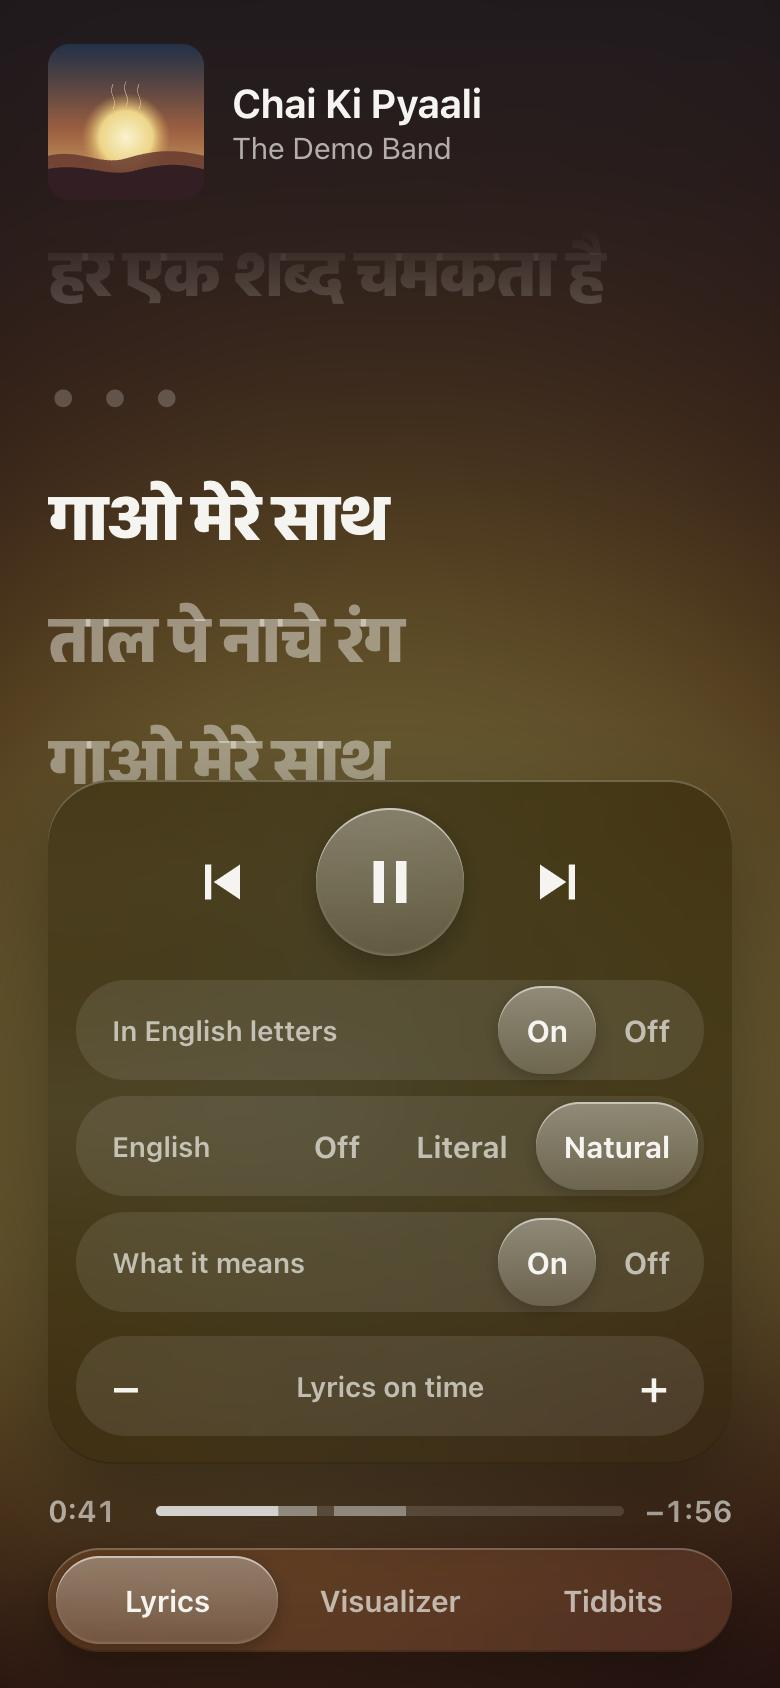
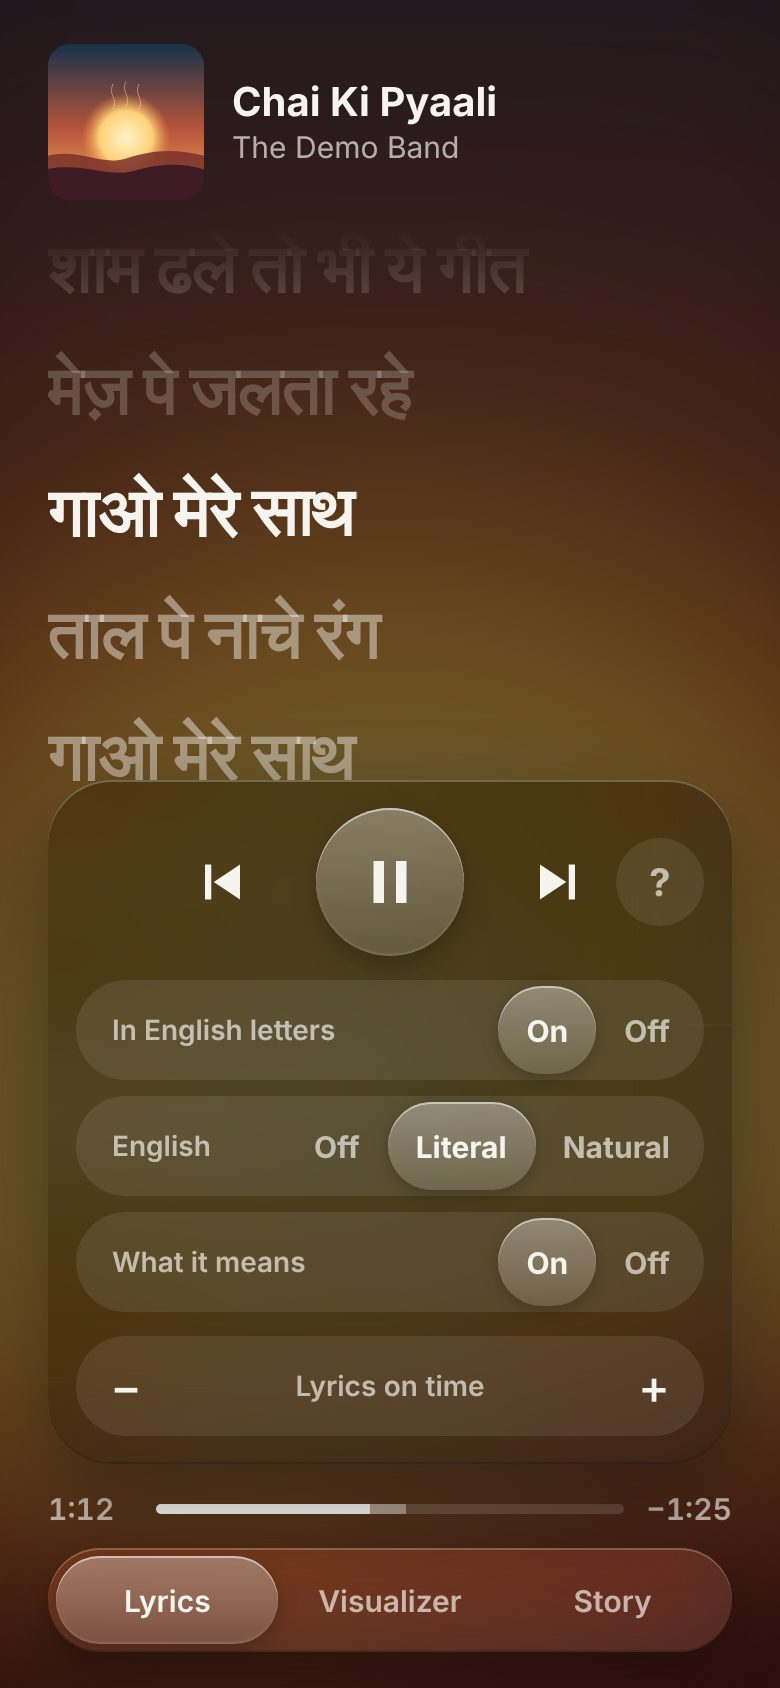
Add the ? guide and a one-time Try Natural hint
The controls get a ? that opens a one-screen guide to every gesture and
setting, two columns sideways so it fits without scrolling. The first few
times the controls open on a translated song with Literal on, a glass hint
points at Natural, above the panel or beside it when there's no room, and
retires for good once Natural is picked. Closes roadmap Next 2.

Claude-Session: https://claude.ai/code/session_01BixvW7bmcQzWrTTaWzzzua

diff --git a/index.html b/index.html
@@ -331,6 +331,36 @@
     transition: opacity .3s ease, translate .5s var(--ease);
   }
   #hint.on { opacity: 1; translate: -50% 0; }
+  /* A hint about a setting floats just above the open controls, over the panel it points into. */
+  #hint.over { z-index: 7; }
+
+  /* The "?" in the controls opens a one-screen guide to everything the page can do. */
+  #timing .transport { position: relative; }
+  #timing #help {
+    position: absolute; right: 0; top: 50%; translate: 0 -50%; width: 44px; height: 44px;
+    font-size: 19px; font-weight: 700; color: var(--muted); background: var(--well);
+  }
+  #guide {
+    margin: auto; width: min(440px, calc(100vw - 2 * var(--pad-x))); max-height: calc(100dvh - var(--pad-top) - var(--pad-bottom));
+    overflow: auto; padding: 0; border: 0; border-radius: 30px; color: var(--text);
+    background: var(--panel); -webkit-backdrop-filter: blur(34px) saturate(1.8); backdrop-filter: blur(34px) saturate(1.8);
+    box-shadow: inset 0 1px 0 rgba(255, 255, 255, .24), inset 0 -1px 0 rgba(0, 0, 0, .16), 0 22px 60px rgba(0, 0, 0, .5);
+    user-select: text; -webkit-user-select: text;
+  }
+  #guide .sheet { padding: 20px 22px 16px; }
+  #guide[open] { animation: guide-in .4s var(--ease); }
+  #guide::backdrop { background: rgba(0, 0, 0, .42); }
+  @keyframes guide-in { from { opacity: 0; transform: translateY(12px) scale(.97); } }
+  @media (prefers-reduced-motion: reduce) { #guide[open] { animation: none; } }
+  #guide h2 { font-size: 22px; font-weight: 700; letter-spacing: -.01em; margin-bottom: 14px; }
+  #guide dl { display: grid; gap: 12px; }
+  #guide dt { font-size: 16px; font-weight: 650; line-height: 1.3; }
+  #guide dd { font-size: 15px; line-height: 1.35; color: var(--muted); }
+  #guide button {
+    display: block; width: 100%; height: 48px; margin-top: 18px; border: 0; border-radius: 99px; cursor: pointer;
+    font: inherit; font-size: 16px; font-weight: 650; color: var(--text); background: var(--drop);
+    box-shadow: inset 0 1px 0 rgba(255, 255, 255, .5), 0 2px 8px rgba(0, 0, 0, .22);
+  }
 
   /* The controls rise out of the footer, in the same glass as the tabs. */
   #timing {
@@ -415,6 +445,15 @@
     #timing { left: var(--pad-x); right: auto; bottom: calc(var(--pad-bottom) + 62px); width: min(380px, 46vw); gap: 10px; padding: 12px; border-radius: 28px; }
     #now.split #timing { left: auto; right: var(--pad-x); }
     #hint { bottom: calc(var(--pad-bottom) + 66px); }
+    #guide { width: min(820px, calc(100vw - 2 * var(--pad-x))); }
+    /* Sideways the guide runs in two columns, with Got it beside the title, so it fits without scrolling. */
+    #guide .sheet { display: grid; grid-template-columns: 1fr auto; align-items: center; padding: 14px 22px 16px; }
+    #guide h2 { margin: 0; font-size: 19px; }
+    #guide form { grid-row: 1; grid-column: 2; }
+    #guide dl { grid-column: 1 / -1; grid-template-columns: 1fr 1fr; column-gap: 26px; row-gap: 7px; margin-top: 8px; }
+    #guide dt { font-size: 15px; }
+    #guide dd { font-size: 14px; line-height: 1.3; }
+    #guide button { width: auto; margin: 0; height: 44px; padding: 0 22px; font-size: 15px; }
     #timing .transport { gap: 14px; }
     #timing .transport button { width: 52px; height: 52px; }
     #timing #play { width: 62px; height: 62px; }
@@ -492,6 +531,7 @@
         <svg class="pause-icon" viewBox="0 0 24 24" aria-hidden="true"><path d="M6.5 5H10v14H6.5zM14 5h3.5v14H14z"/></svg>
       </button>
       <button id="next" aria-label="Next"><svg viewBox="0 0 24 24" aria-hidden="true"><path d="M15.5 5H18v14h-2.5zM4 5v14l10.5-7z"/></svg></button>
+      <button id="help" aria-label="What you can do" aria-haspopup="dialog">?</button>
     </div>
     <div class="settings">
       <div class="seg roman" role="radiogroup" aria-labelledby="roman-label">
@@ -531,6 +571,20 @@
 <div id="offline" hidden>Can't reach your Mac. Retrying.</div>
 <p id="hint" role="status" aria-live="polite"></p>
 
+<dialog id="guide" aria-labelledby="guide-title"><div class="sheet">
+  <h2 id="guide-title">What you can do</h2>
+  <dl>
+    <div><dt>Double-tap anywhere</dt><dd>Shows these controls. One tap hides them.</dd></div>
+    <div><dt>Lyrics, Visualizer, Story</dt><dd>Story tells you what the song is about.</dd></div>
+    <div><dt>Swipe sideways on the Visualizer</dt><dd>Changes the style.</dd></div>
+    <div><dt>In English letters</dt><dd>The words as sung, spelled in English letters.</dd></div>
+    <div><dt>English: Literal or Natural</dt><dd>Word for word, or the way you'd say it.</dd></div>
+    <div><dt>What it means</dt><dd>A short note on each line as it's sung.</dd></div>
+    <div><dt>− and +</dt><dd>Nudge lyrics that run early or late.</dd></div>
+  </dl>
+  <form method="dialog"><button>Got it</button></form>
+</div></dialog>
+
 
 <script>
 const $ = id => document.getElementById(id);
@@ -546,7 +600,7 @@ function wake() {
   ambientTimer = setTimeout(rest, AMBIENT_AFTER_MS);
 }
 function rest() {
-  const busy = !$('timing').classList.contains('off') || !vis.playing || document.querySelector('#hint.on');
+  const busy = !$('timing').classList.contains('off') || !vis.playing || document.querySelector('#hint.on') || $('guide').open;
   if (busy) { ambientTimer = setTimeout(rest, AMBIENT_AFTER_MS); return; }
   document.body.classList.add('ambient');
 }
@@ -563,19 +617,34 @@ const stageBox = () => stageRect || (stageRect = $('stage').getBoundingClientRec
 
 function store(action) { try { return action(localStorage); } catch { return null; } }
 
-// One-time hints for the two gestures nobody would guess. Each shows at most three times,
-// once per visit, and never again once the gesture has been used.
+// One-time hints for what nobody would guess: the double-tap, the styles swipe and Natural English.
+// Each shows at most three times, once per visit, and never again once the feature has been used.
+// A hint given an element floats just above it; that is how the Natural hint points into the open controls.
 const HINT_SHOWS = 3;
 let hintTimer = null;
 const hinted = new Set();
 const hintSeen = name => Number(store(s => s.getItem('hint:' + name))) || 0;
-function offerHint(name, text) {
-  if (hinted.has(name) || hintSeen(name) >= HINT_SHOWS || $('hint').classList.contains('on') || !$('timing').classList.contains('off')) return;
+function offerHint(name, text, over) {
+  if (hinted.has(name) || hintSeen(name) >= HINT_SHOWS || $('hint').classList.contains('on')) return;
+  if (!over && !$('timing').classList.contains('off')) return;
   hinted.add(name);
   store(s => s.setItem('hint:' + name, String(hintSeen(name) + 1)));
   const hint = $('hint');
   hint.dataset.name = name;
   hint.textContent = text;
+  hint.classList.toggle('over', !!over);
+  let left = '', bottom = '';
+  if (over) {
+    const { offsetLeft: x, offsetTop: y, offsetWidth: w, offsetHeight: h } = over;
+    if (y > 64) { left = x + w / 2; bottom = innerHeight - y + 10; }   // room above it
+    else {   // sideways there's no room above, so it sits in the wider space beside it
+      const room = innerWidth - x - w;
+      left = x > room ? x / 2 : x + w + room / 2;
+      bottom = innerHeight - y - h / 2 - 22;
+    }
+  }
+  hint.style.left = left === '' ? '' : left + 'px';
+  hint.style.bottom = bottom === '' ? '' : bottom + 'px';
   hint.classList.add('on');
   clearTimeout(hintTimer);
   hintTimer = setTimeout(hideHint, 6000);
@@ -2202,6 +2271,7 @@ const segDropAt = new WeakMap();
 
 // Off, word for word, or written for meaning. Turning English off keeps the Natural choice for next time.
 function setEnglish(mode) {
+  if (mode === 'natural') retireHint('natural');
   extras.english = mode !== 'off';
   if (mode !== 'off') extras.natural = mode === 'natural';
   store(s => { s.setItem('show:english', extras.english ? '1' : '0'); s.setItem('show:natural', extras.natural ? '1' : '0'); });
@@ -2239,6 +2309,7 @@ function toggleExtra(name) {
   }
   store(s => s.setItem('show:' + name, extras[name] ? '1' : '0'));
   if (name === 'natural' && extras.natural && view.key) loadNatural(view.key);
+  if (name === 'natural' && extras.natural) retireHint('natural');
   showExtras();
   applyExtras();
   revealTiming();
@@ -2843,6 +2914,7 @@ function showOffset() {
 // Closed controls are inert, so VoiceOver and the keyboard skip what can't be seen.
 function setControls(open) {
   if (open) wake();
+  else if ($('hint').classList.contains('over')) hideHint();
   $('timing').classList.toggle('off', !open);
   $('timing').inert = !open;
   $('open-controls').setAttribute('aria-expanded', open);
@@ -2869,10 +2941,28 @@ function toggleControls() {
     retireHint('controls');
     store(s => s.setItem('controls:opens', String(controlsOpens() + 1)));
     revealTiming();
+    offerNatural();
     return;
   }
   clearTimeout(timingTimer);
   setControls(false);
+}
+
+// Natural English is the setting most worth finding, so the first few times the controls open on a
+// translated song with Literal on, a hint points at it.
+function offerNatural() {
+  if (!extras.english || extras.natural || !Object.keys(view.english).length) return;
+  setTimeout(() => {
+    if (!$('timing').classList.contains('off') && !extras.natural) offerHint('natural', 'Try Natural for English that flows', $('timing'));
+  }, 700);
+}
+
+// The guide covers everything in one screen. The controls step aside while it's open.
+function openGuide() {
+  clearTimeout(timingTimer);
+  setControls(false);
+  hideHint();
+  $('guide').showModal();
 }
 
 function changeOffset(delta) {
@@ -2913,6 +3003,9 @@ $('offset').onclick = () => { if (view.offset) changeOffset(-view.offset); else 
 for (const button of document.querySelectorAll('#timing .english button')) button.onclick = () => setEnglish(button.dataset.english);
 buildPager();
 new ResizeObserver(() => placePager(false)).observe($('vis-pager'));
+$('help').onclick = openGuide;
+$('guide').addEventListener('close', () => $('open-controls').focus({ preventScroll: true }));
+$('guide').addEventListener('click', event => { if (event.target === $('guide')) $('guide').close(); });   // a tap outside the panel
 $('earlier').onclick = () => changeOffset(STEP);
 $('later').onclick = () => changeOffset(-STEP);
 $('open-controls').onclick = () => {
@@ -2936,6 +3029,7 @@ $('now').addEventListener('pointerup', pointerEnd);
 $('now').addEventListener('pointercancel', pointerEnd);
 addEventListener('resize', () => { stageRect = null; placeActive(true); });
 
+if (extras.natural) retireHint('natural');
 showOffset();
 showExtras();
 showVisStyle(false);

diff --git a/README.md b/README.md
@@ -73,7 +73,7 @@ Play a song in Apple Music, Spotify, or a YouTube tab in Safari, and the phone s
   </tr>
   <tr>
     <td><b>Controls.</b> Only what applies to the tab you're on.</td>
-    <td><b>Hints.</b> The first few times, a hint shows the gesture. It stops once you've used it.</td>
+    <td><b>Hints.</b> The first few times, a hint shows the gesture, or points at Natural in the controls. It stops once you've used it.</td>
     <td><b>More tidbits.</b> Each card takes the album's colours, light or dark.</td>
   </tr>
 </table>
@@ -99,6 +99,7 @@ Leave the phone on the desk with the app open and play music on the Mac. Everyth
   - **Every tab:** previous, play/pause, next.
   - **Lyrics:** **In English letters** turns the transliteration on or off. **English** picks **Off**, **Literal** (word for word) or **Natural** (written for meaning). **What it means** adds a short note under lines whose meaning needs more than a translation. The first time Natural and the notes run on a song they take 20 to 50 seconds each, with a filling ring under the lyric to show how far along they are; the literal English shows meanwhile. **− / +** moves the lyrics a quarter second earlier or later if they drift, and the label says where they are; tap it to put them back on time. It's saved on the Mac for that song, so every phone shows the same fix and it survives reinstalling the page.
   - **Visualizer:** playback, and the timing nudge for the sung line.
+  - **?** at the right of the playback buttons opens a one-screen guide to all of this. The first few times the controls open on a translated song, a hint points at **Natural**, until you've tried it.
 - **With VoiceOver,** double-tap belongs to VoiceOver, so swipe to the **Show controls** button just after the song title instead. With a keyboard, Tab gets you there and Escape closes the controls.
 - **Left alone,** after 8 seconds the tabs and progress bar fade and the title dims. Any touch, a new song or a pause brings them back.
 - **Visualizer styles:** swipe sideways to switch between **Rings**, **Kolam**, **Words**, **Diyas** and **Vinyl**. The glass pill at the top shows the one that's on with its neighbours either side, and slides along as you swipe; past the last style it comes back round to the first. You can tap the neighbours too. In Rings, touching the screen ripples and stirs the picture. In Kolam, it lights up the dots under your finger.

diff --git a/ROADMAP.md b/ROADMAP.md
@@ -15,16 +15,15 @@ Nothing is in progress. Pick something from Next.
 ## Next
 
 1. **Story tab, with meaning.** Rename Tidbits to Story. Open it with what the song is about, in two or three sentences written from the Natural translation, then the key line and what it means, then the tidbits.
-2. **Show people what's possible.** One-time glass hints where they apply ("Double-tap for controls", "Swipe for more styles", "Try Natural"), plus a small "?" in the controls that opens a one-screen guide. Each hint goes away for good once the feature has been used.
-3. **The phone finds the Mac by itself.** No address to type: the server announces itself on the network and the page finds it.
+2. **The phone finds the Mac by itself.** No address to type: the server announces itself on the network and the page finds it.
 
 ## Later
 
-4. **Exact word timing with Whisper.** Lyric sites only time whole lines, so the word highlight is an estimate. Listening to the song with Whisper (on the Mac, after separating the vocals) could time each word.
-5. **An idle screen worth looking at.** When nothing plays, a slow wall of recently played album art, or a clock in the last album's colours.
-6. **More visual styles.** See the ideas below.
-7. **More from the phone.** Volume, a look at what's up next, "play more like this".
-8. **Windows support.** See below.
+3. **Exact word timing with Whisper.** Lyric sites only time whole lines, so the word highlight is an estimate. Listening to the song with Whisper (on the Mac, after separating the vocals) could time each word.
+4. **An idle screen worth looking at.** When nothing plays, a slow wall of recently played album art, or a clock in the last album's colours.
+5. **More visual styles.** See the ideas below.
+6. **More from the phone.** Volume, a look at what's up next, "play more like this".
+7. **Windows support.** See below.
 
 ## Visualizer ideas
 
